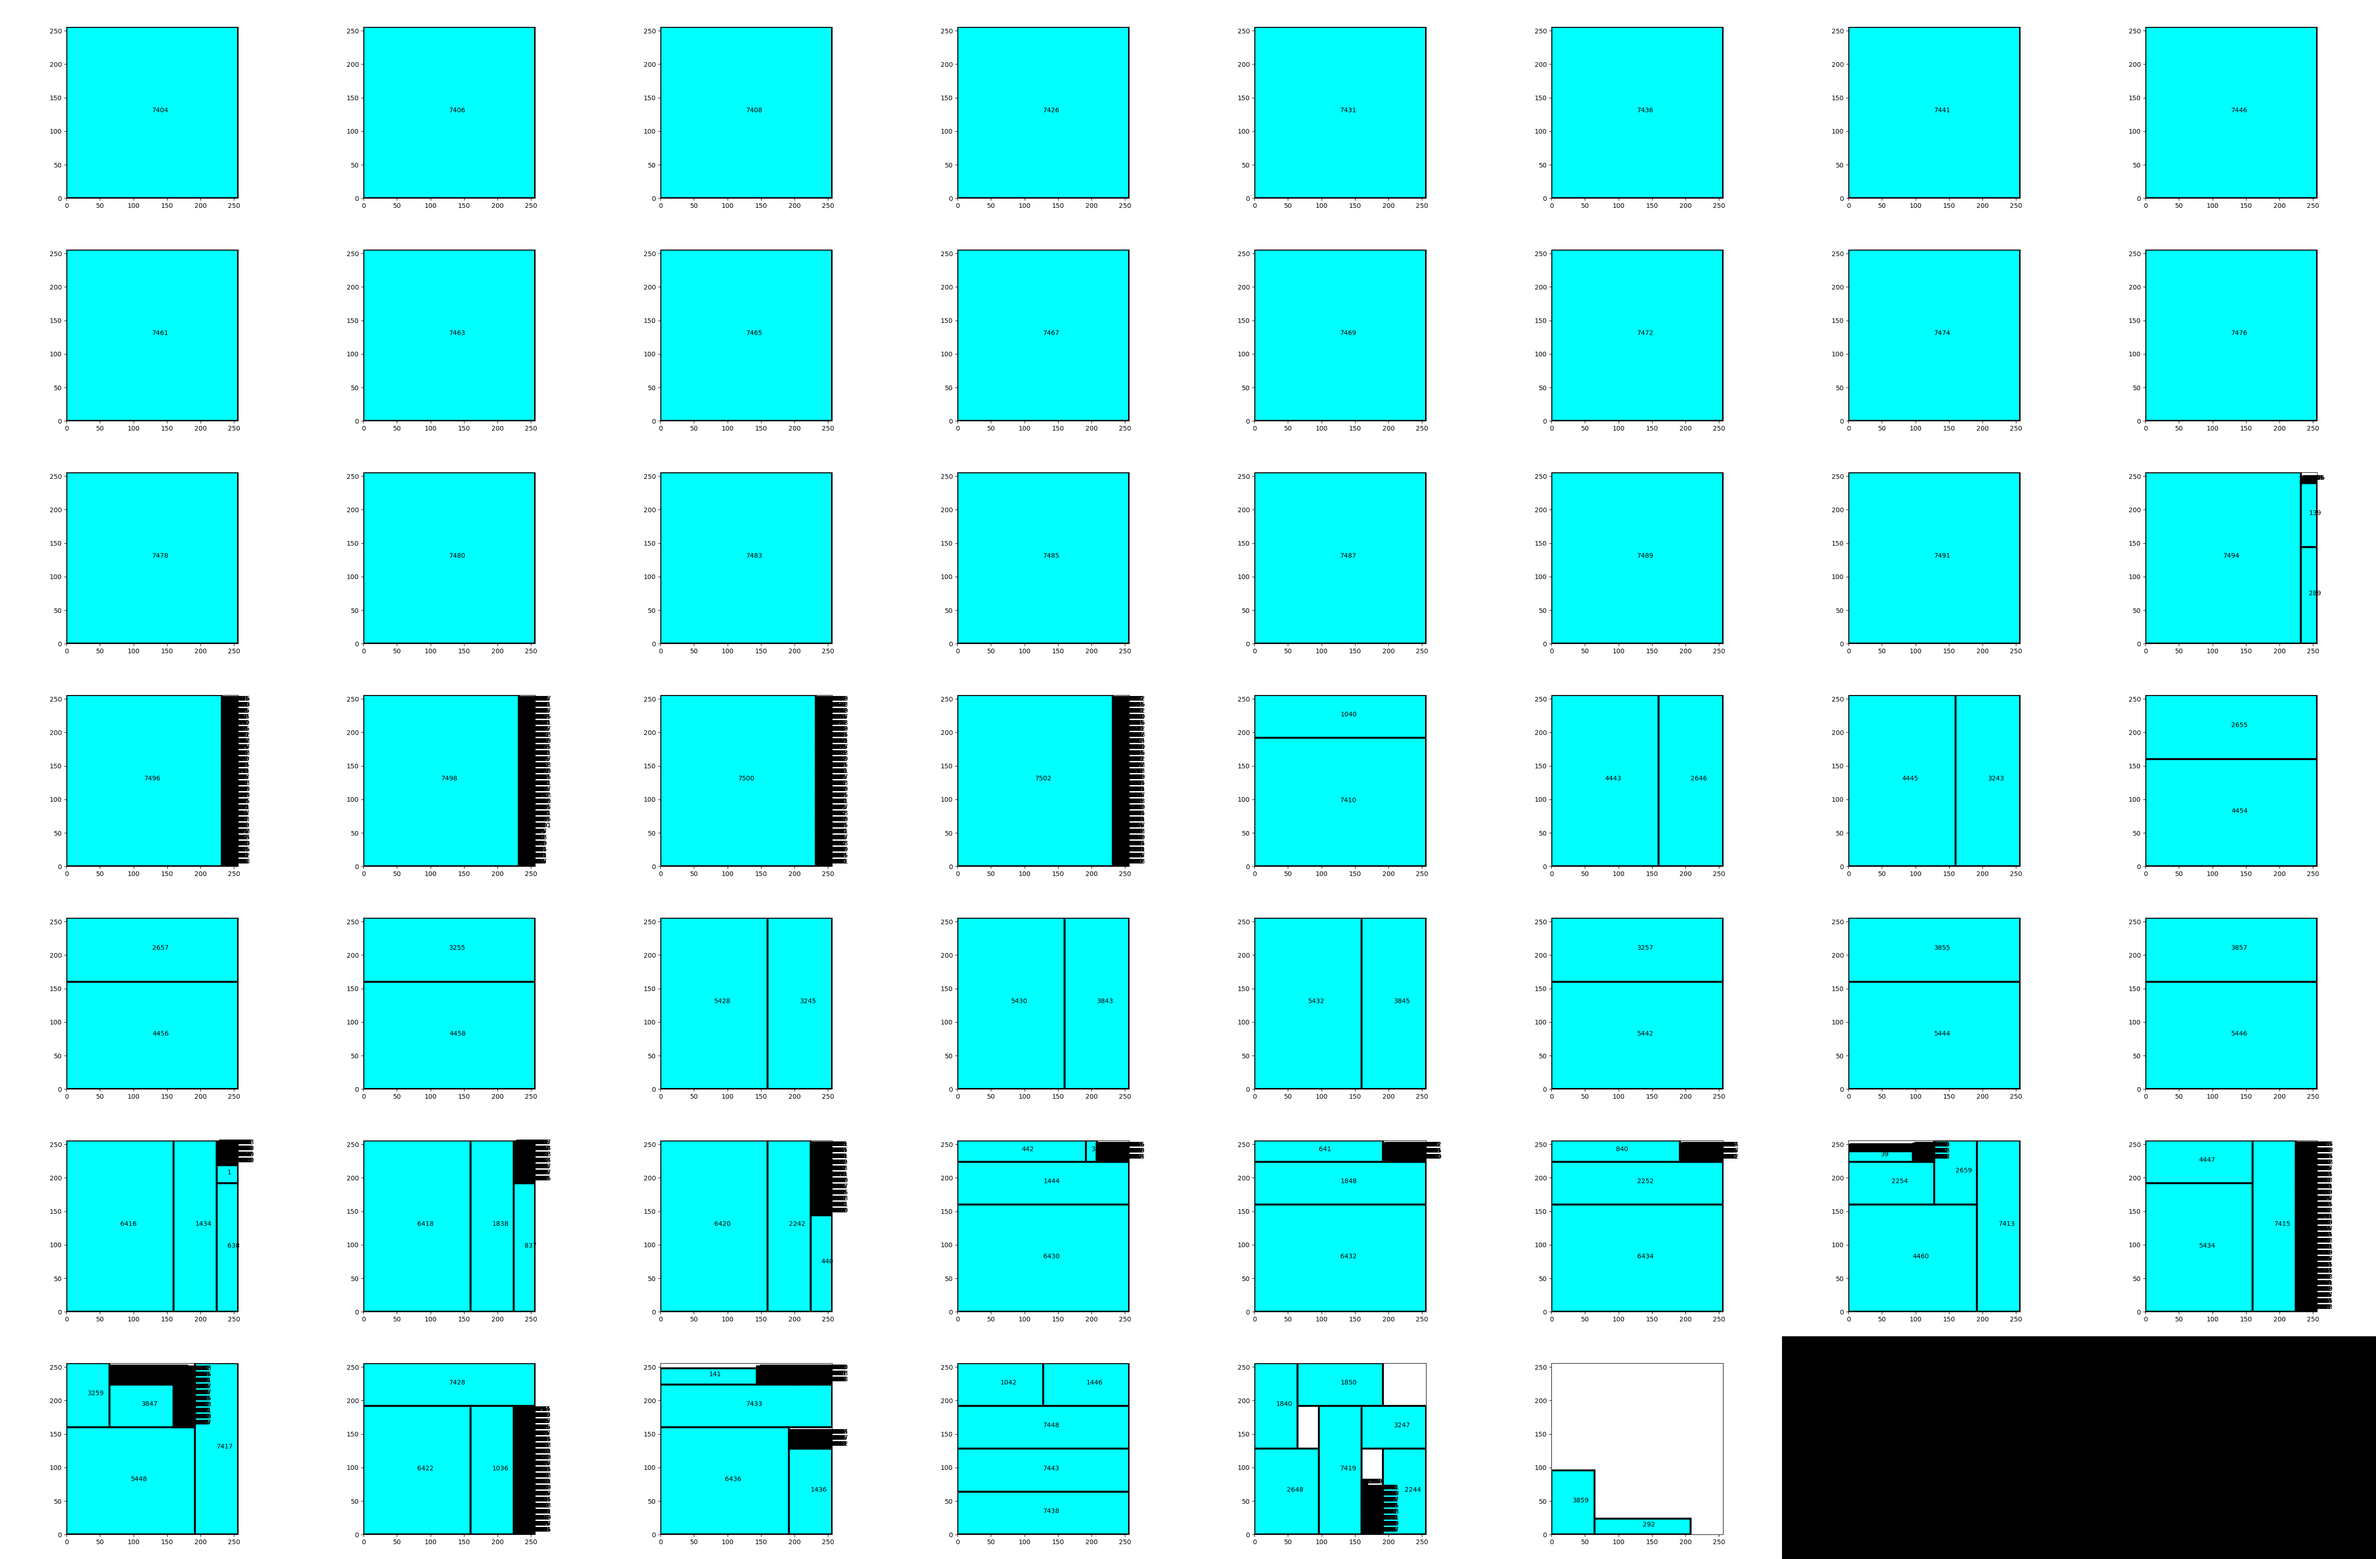
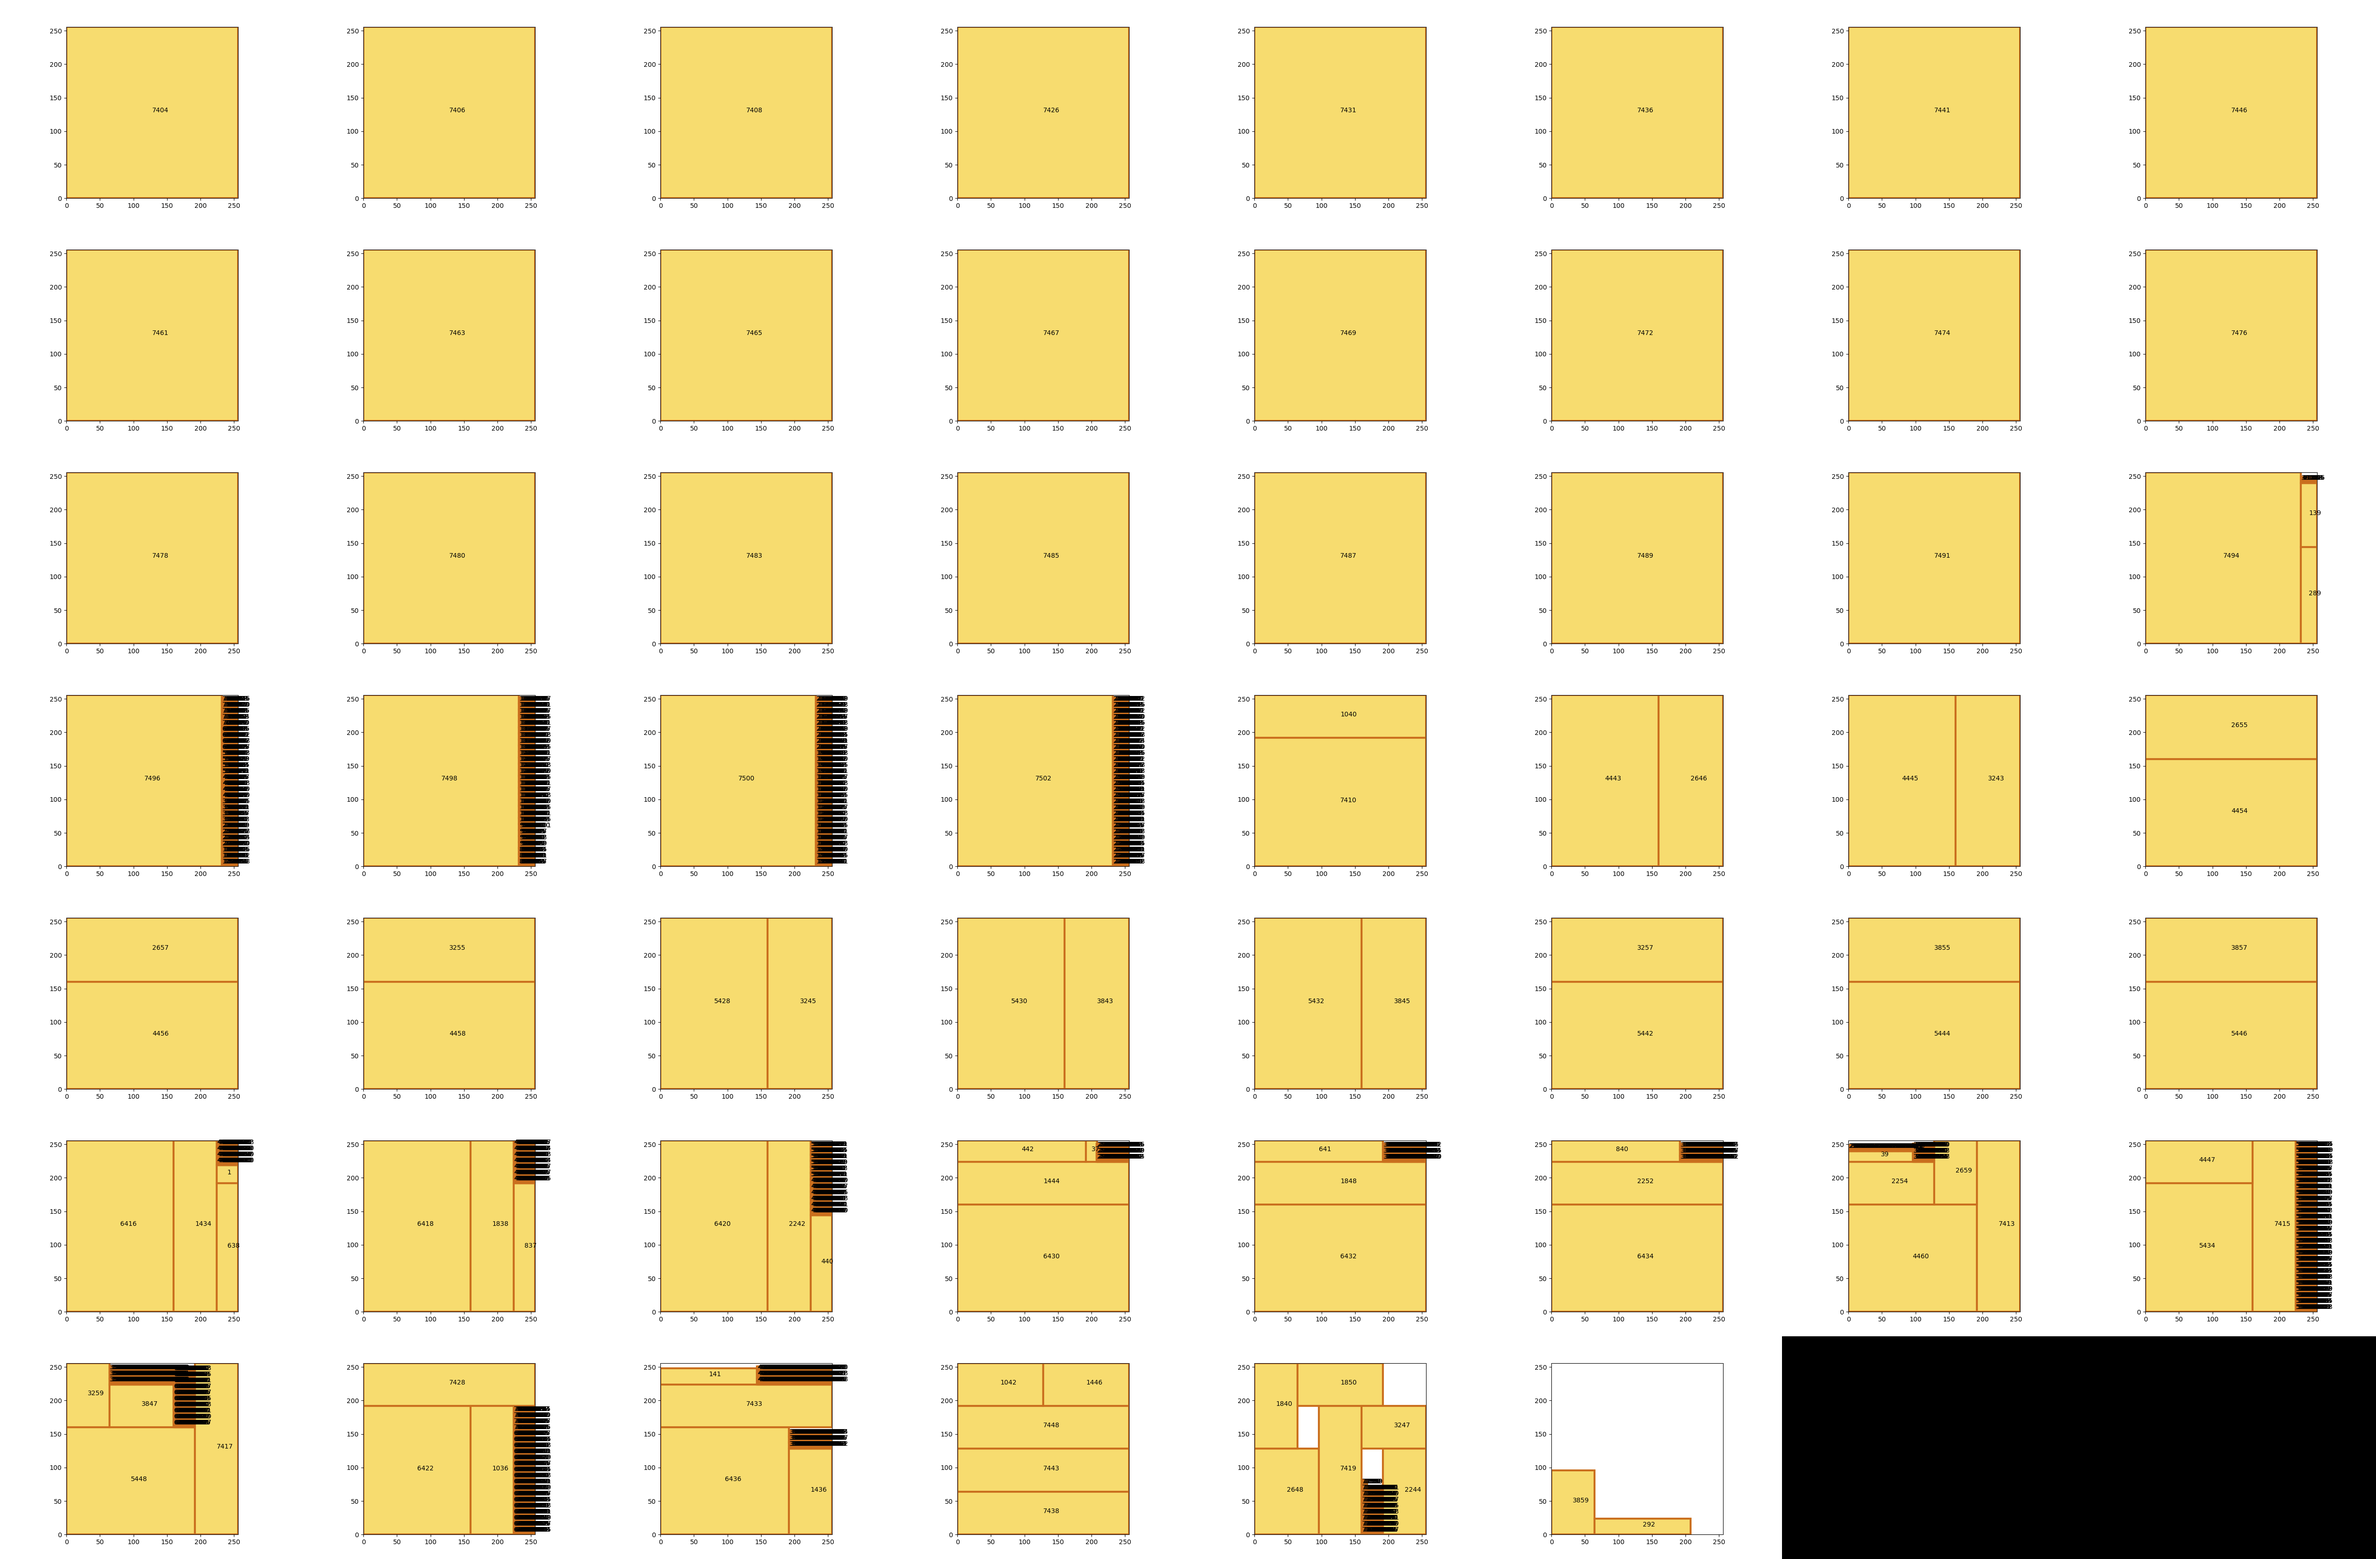
bin packing color, readme

diff --git a/hwacctools/comp_graph/core.py b/hwacctools/comp_graph/core.py
@@ -18,9 +18,23 @@ def add_rects_to_packer(packer,shapelist):
         packer.add_rect(rectw,recth,rid)
     return packer
 
+def pack_all_matrices(cgraph,core_size,packer):
+    inshapes = cgraph.split_convolutions(inshapes,H=core_size[0],W=core_size[1])
+    cgraph_shapes = inshapes._get_shape_list_id()
+
+    packer = rectpack.newPacker(rotation=False,
+                                pack_algo=rectpack.MaxRectsBssf)
+    packer = add_rects_to_packer(packer,cgraph_shapes)
+
+    packer.add_bin(*core_size,count=float("inf"))
+    packer.pack()
+    return cgraph,core_size,packer
+
+
+
 class packed_model(object):
     '''
-    Set of AIMC cores for simulation
+    Runs bin packing on a cgraph
 
     > Splits a cgraph's matrices into at most core_size sized matrices.
     > Uses rectangular packing to pack each matrix into core_size arrays

diff --git a/hwacctools/bin_packing/packer_utils.py b/hwacctools/bin_packing/packer_utils.py
@@ -67,8 +67,8 @@ def plot_packing(packer,
                     (x, y),  # (x,y)
                     w,          # width
                     h,          # height
-                    facecolor="#00ffff",
-                    edgecolor="black",
+                    facecolor="#f7dc6f",
+                    edgecolor="#ca6f1e",
                     linewidth=3
                 )
             )

diff --git a/README.md b/README.md
@@ -52,7 +52,10 @@ out = cgraph_UUT.forward(input_dict)
 
 ## Bin Packing
 
-Applies rectangular bin packing algorithms on the computational graphs. WIP.
+Utilities for applying rectangular bin packing algorithms on the computational graphs.
+(Most of the actual implementation is inside comp_graph/core at the moment)
+
+![](images/bin_packing.png)
 
 ## Requirements
 
